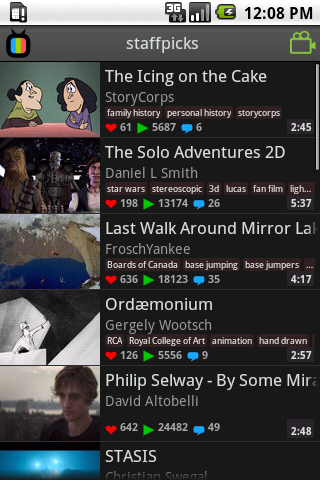
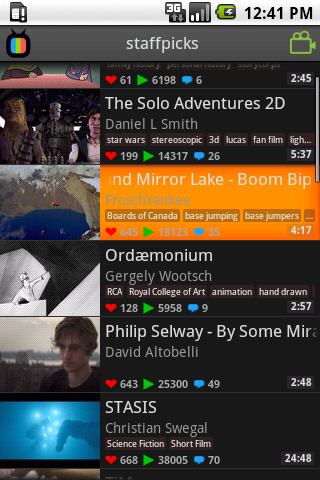
no tags stub

diff --git a/apk/gen/org/vimeoid/R.java b/apk/gen/org/vimeoid/R.java
@@ -32,21 +32,22 @@ public final class R {
     public static final class dimen {
         public static final int action_icon_side=0x7f050004;
         public static final int action_item_height=0x7f050003;
-        public static final int actions_group_title_font_size=0x7f05000e;
+        public static final int actions_group_title_font_size=0x7f05000f;
         public static final int actions_group_title_height=0x7f050002;
-        public static final int item_action_font_size=0x7f05000d;
-        public static final int item_info_font_size=0x7f050012;
-        public static final int item_param_font_size=0x7f050011;
-        public static final int item_subtitle_font_size=0x7f050010;
-        public static final int item_tags_font_size=0x7f050013;
+        public static final int item_action_font_size=0x7f05000e;
+        public static final int item_info_font_size=0x7f050013;
+        public static final int item_param_font_size=0x7f050012;
+        public static final int item_subtitle_font_size=0x7f050011;
+        public static final int item_tags_font_size=0x7f050014;
         public static final int item_thumb_height=0x7f050006;
         public static final int item_thumb_width=0x7f050005;
-        public static final int item_title_font_size=0x7f05000f;
+        public static final int item_title_font_size=0x7f050010;
         public static final int load_more_height=0x7f05000c;
         public static final int single_thumb_height=0x7f050008;
         public static final int single_thumb_width=0x7f050007;
         public static final int small_progress_side=0x7f05000a;
         public static final int small_progressbar_height=0x7f05000b;
+        public static final int tags_line_height=0x7f05000d;
         public static final int titlebar_height=0x7f050000;
         public static final int titlebar_icons_side=0x7f050001;
         public static final int video_player_height=0x7f050009;
@@ -146,10 +147,11 @@ public final class R {
         public static final int item_list_empty=0x7f030004;
         public static final int item_subject_titlebar=0x7f030005;
         public static final int item_video=0x7f030006;
-        public static final int progress_bar_line=0x7f030007;
-        public static final int tag_for_the_item=0x7f030008;
-        public static final int view_single_video=0x7f030009;
-        public static final int welcome=0x7f03000a;
+        public static final int no_tags_for_item=0x7f030007;
+        public static final int progress_bar_line=0x7f030008;
+        public static final int tag_for_the_item=0x7f030009;
+        public static final int view_single_video=0x7f03000a;
+        public static final int welcome=0x7f03000b;
     }
     public static final class menu {
         public static final int main_options_menu=0x7f070000;

diff --git a/apk/src/org/vimeoid/adapter/guest/VideosListAdapter.java b/apk/src/org/vimeoid/adapter/guest/VideosListAdapter.java
@@ -93,13 +93,14 @@ public class VideosListAdapter extends EasyCursorsAdapter<Video> {
     protected void injectTags(final String[] tags, final ViewGroup group, final int curPosition) {
     	group.removeAllViews();
     	if (tags.length == 0) {
+    		group.addView(layoutInflater.inflate(R.layout.no_tags_for_item, null));
     		return;
     	}
     	// FIXME: use tagStruct.setTag/getTag to find the actual layout 
     	// FIXME: set to "no tags" if there is no tags 
     	for (final String tag: tags) {
     		if (tag.trim().length() == 0) continue;
-    		final LinearLayout tagStruct = (LinearLayout)layoutInflater.inflate(R.layout.tag_for_the_item, null);
+    		final View tagStruct = layoutInflater.inflate(R.layout.tag_for_the_item, null);
     		((TextView)tagStruct.findViewById(R.id.tagItem)).setText(tag.trim());
     		group.addView(tagStruct);
     	}
